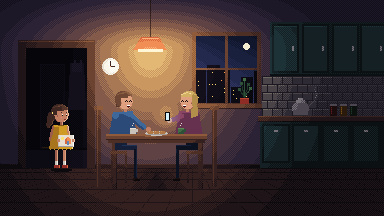
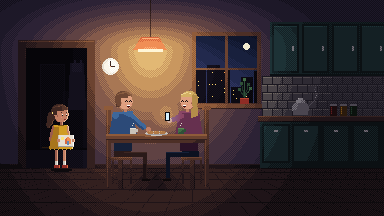
Терапия, сцена «Кухня»: пропорции сидящих — сиденье ниже, бёдра длиннее, голени короче
Claude-Session: https://claude.ai/code/session_01JKtjJpu2YfAJZ2pw4Y22tU

Changed region(s): [[0.25, 0.4722, 0.5625, 0.8611]]

diff --git a/lesson-01/rft-examples/art/kitchen.py b/lesson-01/rft-examples/art/kitchen.py
@@ -103,13 +103,13 @@ env.poly([(LX-9,37),(LX+9,37),(LX+17,50),(LX-17,50)],'red',0)
 env.rect(LX-8,38,LX+8,38,'red',1.5)
 env.rect(LX-12,49,LX+12,51,'bulb')
 # ── стулья (задние)
-for cx in (98,214):
+for cx in (108,206):
     env.rect(cx-2,108,cx+2,FLOOR+18,'wood',-0.3)
     env.rect(cx-1,108,cx-1,FLOOR+18,'wood',0.8)
     env.rect(cx-4,106,cx+4,109,'wood',0.6)
 # ── стол
 TX0,TX1,TY=106,206,134
-for lx in (112,198):
+for lx in (118,190):
     env.rect(lx,TY+6,lx+4,FLOOR+20,'wood',-0.4); env.rect(lx+4,TY+6,lx+4,FLOOR+20,'wood',-1.4)
 # ── персонажи
 def head(L,cx,cy,f,hairr,style,expr,hairsh=0):
@@ -195,23 +195,27 @@ for dx in (-5,3):
     chars.rect(lx+dx-1,ly+52,lx+dx+4,ly+54,'red',-0.6)
 head(chars,lx,ly,1,'hair','pony','look',hairsh=0.6)
 # ── нижняя часть тел под столом + сиденья стульев
-def lower(cx,f,pants,psh):
-    seat_y=TY+12
-    # сиденье и ножки стула (за персонажем)
-    env.rect(cx-f*14 if f>0 else cx-2, seat_y+5, cx+2 if f>0 else cx+14, seat_y+7,'wood',0.2)
-    for lx_ in ((cx-f*13),(cx+f*1)):
-        env.rect(lx_,seat_y+8,lx_+1,FLOOR+14,'wood',-0.6)
-    # таз и бёдра (сидит), колено вперёд, голень вниз, стопа носком вперёд
-    chars.rect(min(cx-f*9,cx+f*2),TY+8,max(cx-f*9,cx+f*2),seat_y+3,pants,psh)
-    chars.rect(min(cx-f*2,cx+f*12),seat_y-1,max(cx-f*2,cx+f*12),seat_y+3,pants,psh)
-    chars.rect(min(cx-f*2,cx+f*12),seat_y-1,max(cx-f*2,cx+f*12),seat_y-1,pants,psh+1.2)
-    kx=cx+f*10
-    chars.rect(min(kx,kx+f*2),seat_y+3,max(kx,kx+f*2),FLOOR+10,pants,psh-0.3)
-    chars.rect(min(kx+f*2,kx+f*2),seat_y+3,kx+f*2,FLOOR+10,pants,psh+0.6)
-    chars.rect(min(kx-f*1,kx+f*5),FLOOR+11,max(kx-f*1,kx+f*5),FLOOR+12,'hair',-0.3)
-    chars.rect(min(kx-f*1,kx+f*3),FLOOR+10,max(kx-f*1,kx+f*3),FLOOR+10,'hair',0.4)
-lower(mx,1,'blue',-0.9)
-lower(fx,-1,'blue',-1.6)
+def lower(cx,f,pants,psh,top):
+    seat_y=TY+19
+    # сиденье стула под тазом и его ножки
+    env.rect(min(cx-f*13,cx+f*7),seat_y+4,max(cx-f*13,cx+f*7),seat_y+6,'wood',0.3)
+    env.rect(min(cx-f*13,cx+f*7),seat_y+4,max(cx-f*13,cx+f*7),seat_y+4,'wood',1.2)
+    for lx_ in (cx-f*12,cx+f*6):
+        env.rect(lx_,seat_y+7,lx_+1,FLOOR+15,'wood',-0.6)
+    # продолжение туловища до сиденья (свитер)
+    chars.poly([(cx-f*11,TY),(cx+f*9,TY),(cx+f*8,seat_y-2),(cx-f*10,seat_y-2)],top,-0.4)
+    # таз и бёдра: длинные, к колену под столом
+    chars.rect(min(cx-f*10,cx+f*6),seat_y-2,max(cx-f*10,cx+f*6),seat_y+3,pants,psh)
+    chars.rect(min(cx,cx+f*22),seat_y-1,max(cx,cx+f*22),seat_y+3,pants,psh)
+    chars.rect(min(cx,cx+f*22),seat_y-1,max(cx,cx+f*22),seat_y-1,pants,psh+1.1)
+    kx=cx+f*19
+    # голень до пола
+    chars.rect(min(kx,kx+f*3),seat_y+3,max(kx,kx+f*3),FLOOR+10,pants,psh-0.3)
+    chars.rect(kx+f*3,seat_y+3,kx+f*3,FLOOR+10,pants,psh+0.5)
+    chars.rect(min(kx-f*1,kx+f*6),FLOOR+11,max(kx-f*1,kx+f*6),FLOOR+12,'hair',-0.3)
+    chars.rect(min(kx-f*1,kx+f*4),FLOOR+10,max(kx-f*1,kx+f*4),FLOOR+10,'hair',0.4)
+lower(mx,1,'hair',0.4,'blue')
+lower(fx,-1,'blue',-1.6,'mag')
 # тень Лены на полу
 env.rect(lx-9,FLOOR+1,lx+11,FLOOR+2,'wood',-2.2)
 env.rect(lx-6,FLOOR+3,lx+8,FLOOR+3,'wood',-1.8)
